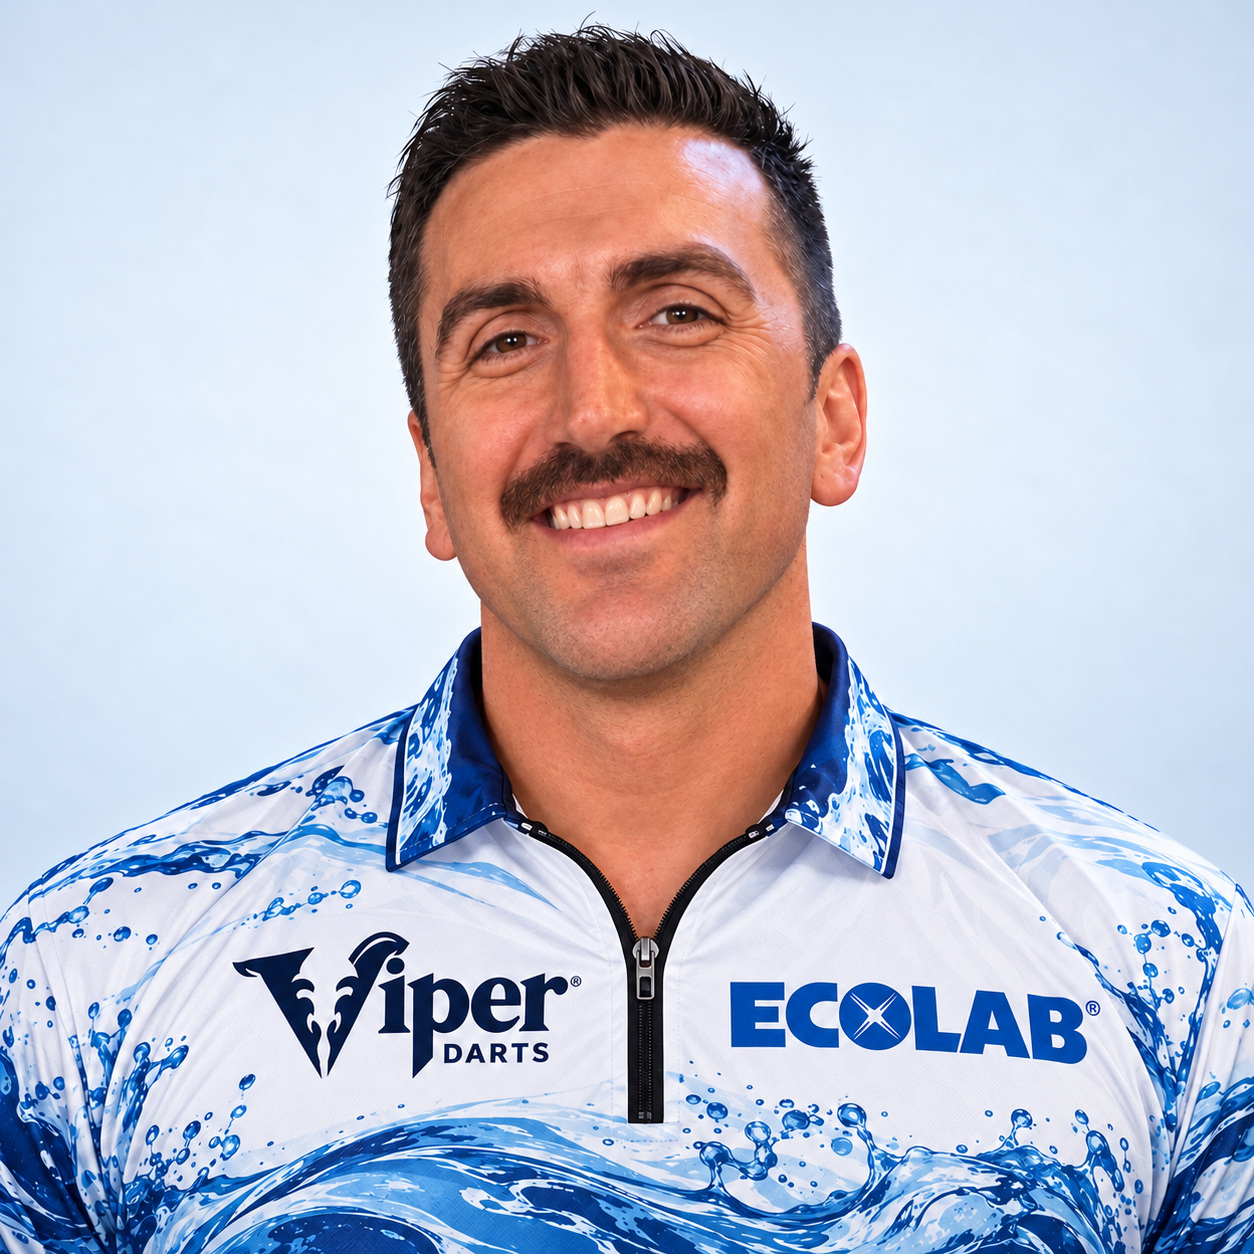
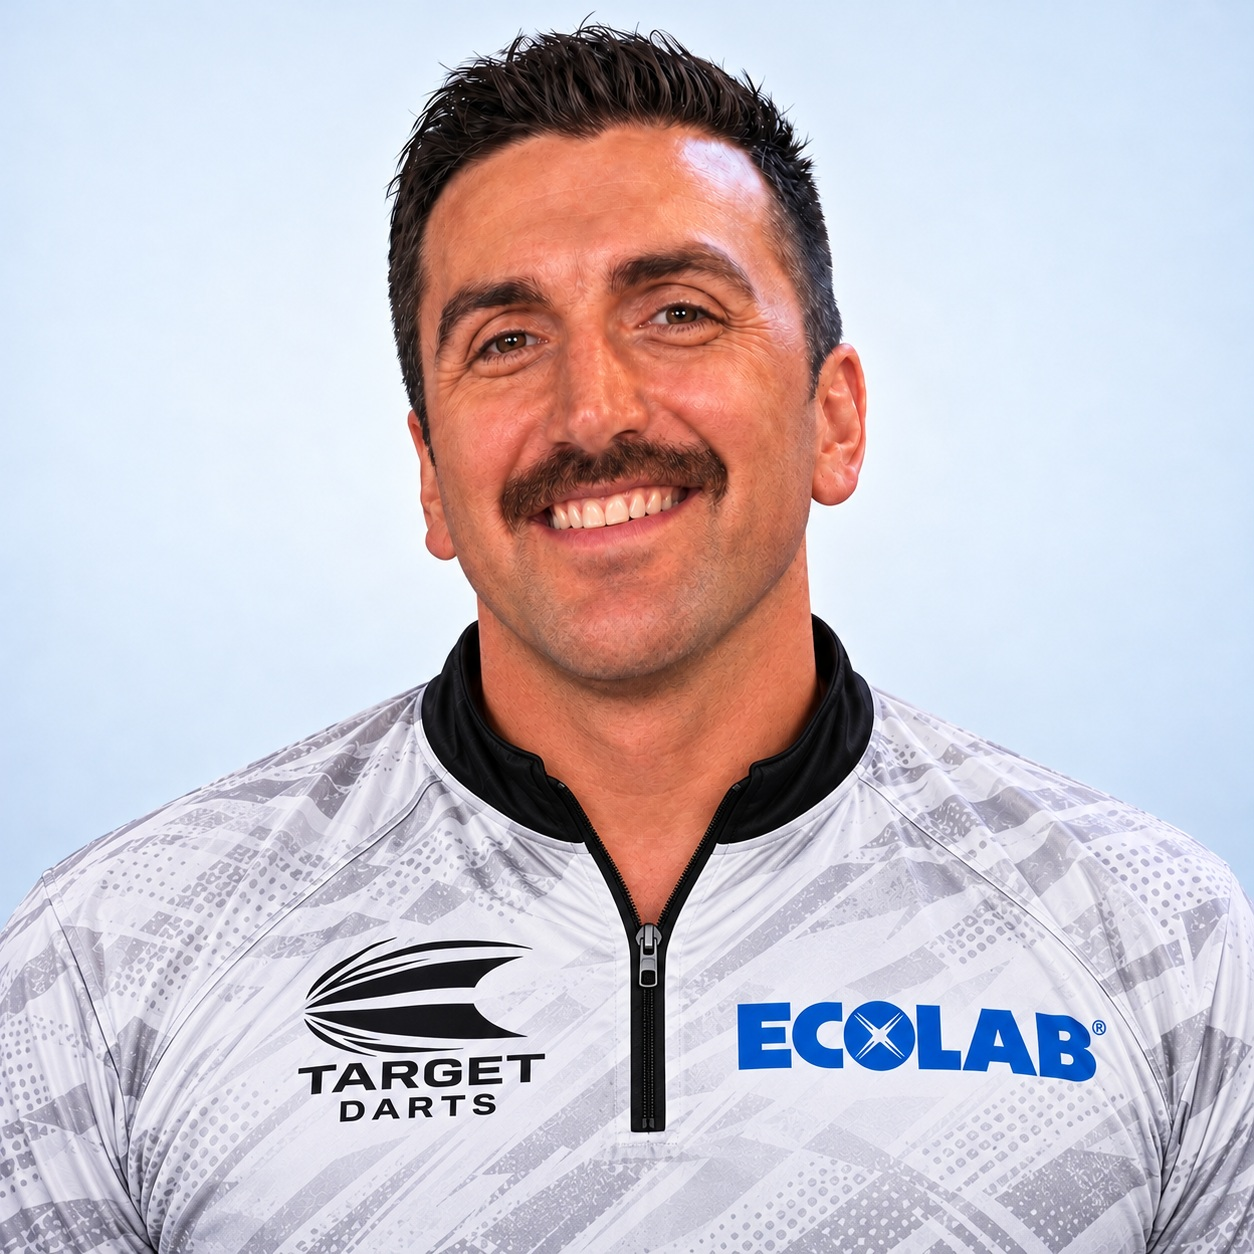
Add files via upload

diff --git a/redesign.css b/redesign.css
@@ -18,3 +18,15 @@
 .hero.hero-banner .hero-bottom{display:none!important}
 .hero.hero-banner .sbc-hero-copy{display:none!important}
 @media(max-width:620px){.hero.hero-banner{min-height:0!important;aspect-ratio:1934 / 794}.hero.hero-banner .sbc-lanes-art{height:auto!important}}
+
+/* Consistent player-card portrait framing; Allex's original image is unchanged. */
+#player-grid .player-card .portrait { height: 210px; overflow: hidden; }
+#player-grid .player-card .portrait img {
+  display: block; width: 100%; height: 100%;
+  object-fit: cover; object-position: center top;
+}
+#player-grid .player-card .portrait img[src*="P11.jpg"] {
+  object-position: center 15%;
+  transform: scale(1.12);
+  transform-origin: center 25%;
+}
